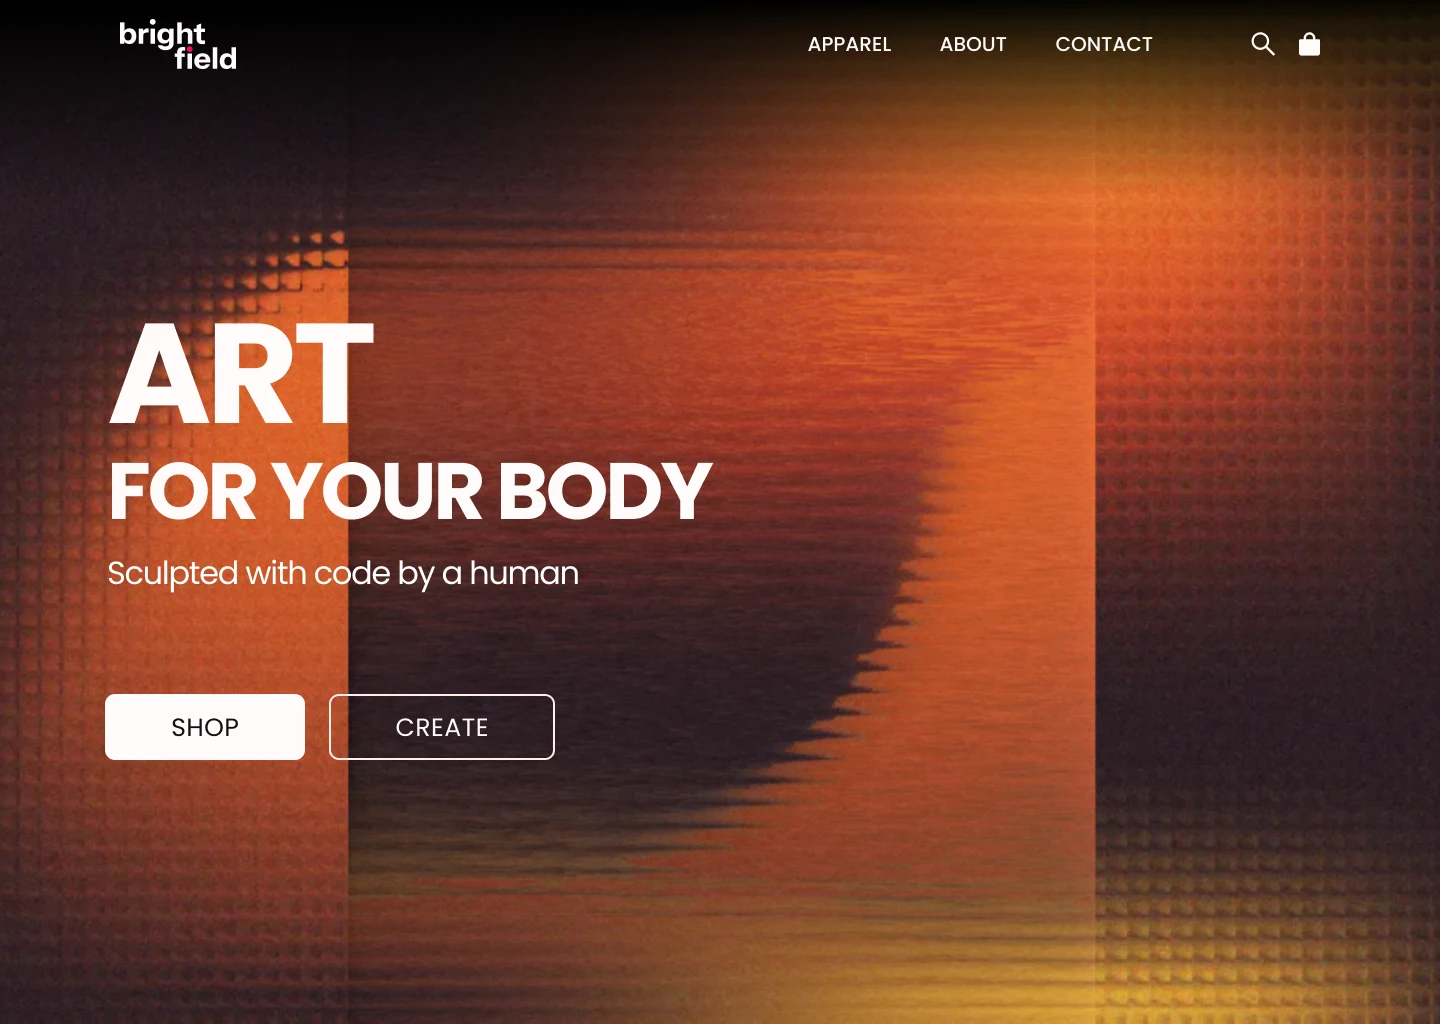
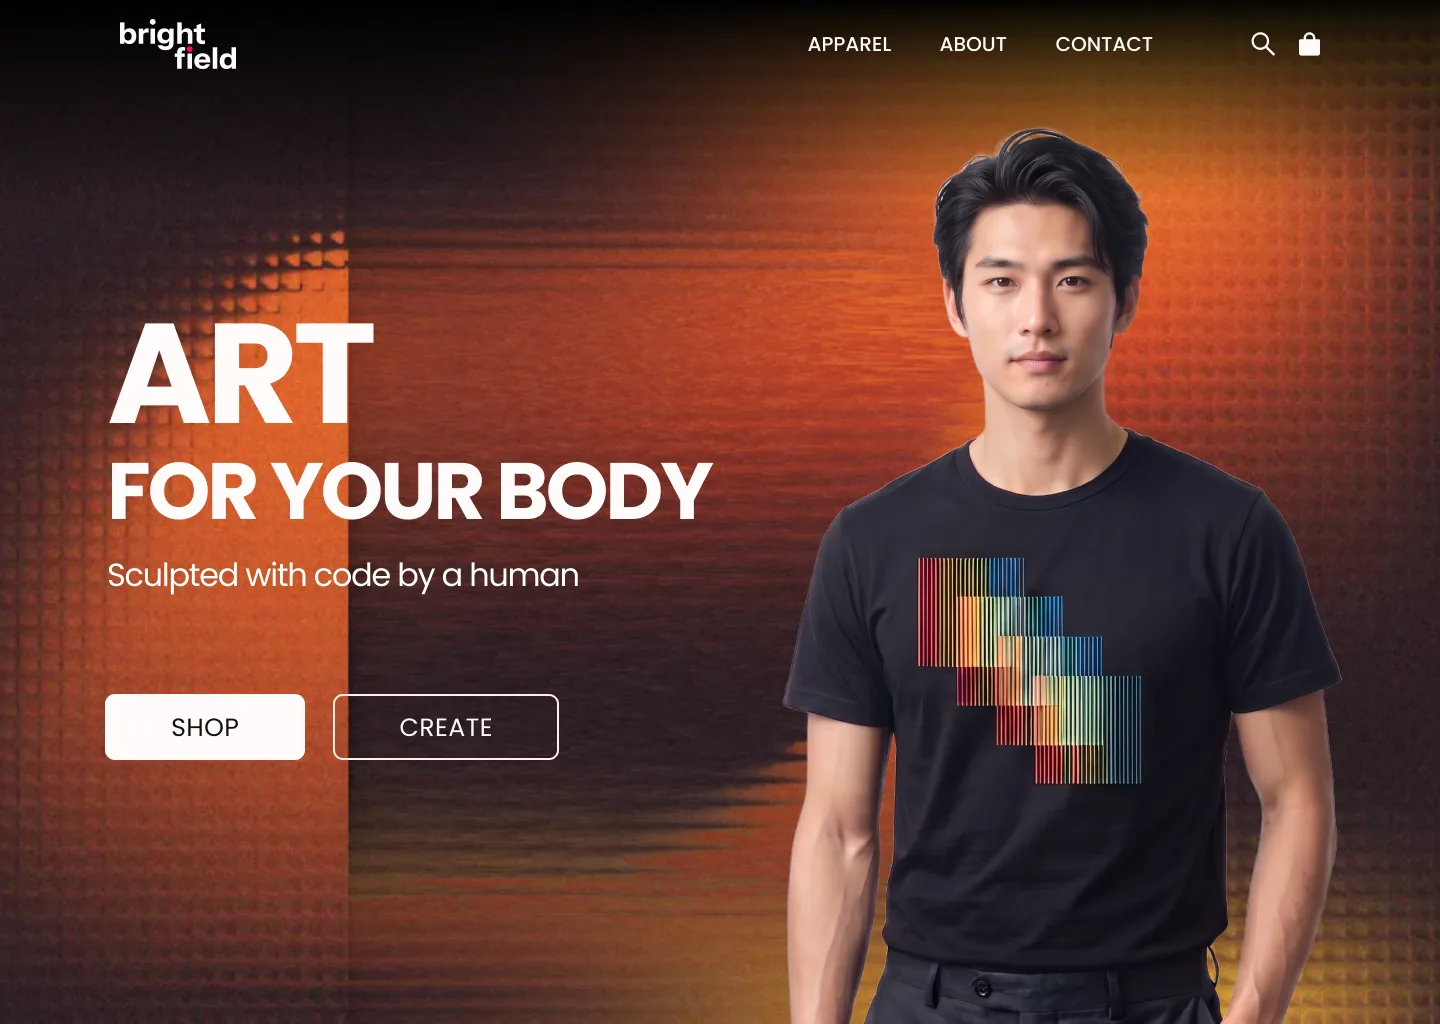
Update Brightfield case study hero, human section and footer from Nov 2026 Figma
- Re-export the desktop, tablet and mobile hero images (model in a printed shirt)
- Rebuild the human section mockup: portrait on the left, copy on the right,
  large quote mark behind the bio, new portrait crop
- Rebuild the footer mockup as the new light footer, with a dark wordmark
- Point View in Figma and the embed at the Nov 2026 file

Claude-Session: https://claude.ai/code/session_016ninutameoH43RX764rPhJ

diff --git a/next-frontend/src/app/work-ive-done/brightfield-redesign/page.tsx b/next-frontend/src/app/work-ive-done/brightfield-redesign/page.tsx
@@ -7,7 +7,7 @@ import AnimatedHeading from "@/components/ui/AnimatedHeading";
 import FigmaEmbed from "@/components/brightfield/FigmaEmbed";
 import { DesignsMockup, EndingMockup, HumanMockup } from "@/components/brightfield/Mockups";
 
-const FIGMA_FILE = "kD4AhFhs5ZlpsJfsTUuok6/Brightfield-web-redesign-Sept-2026?node-id=0-1";
+const FIGMA_FILE = "g1xZl2Yb6dmDzGv7zwKyvK/Brightfield-web-redesign-Nov-2026---Portfolio?node-id=0-1";
 const FIGMA_URL = `https://www.figma.com/design/${FIGMA_FILE}`;
 const FIGMA_EMBED_URL = `https://embed.figma.com/design/${FIGMA_FILE}&embed-host=share`;
 
@@ -135,12 +135,12 @@ export default function BrightfieldRedesignPage() {
                 <section>
                     <SectionHeading id="hero">The Hero</SectionHeading>
                     <p className="text-gray-700 leading-relaxed">
-                        The art fills the first screen, edge to edge, before anything is said about it. The headline is three words, and the two buttons name the two things you can do at Brightfield: shop a design, or create one.
+                        The art fills the first screen, edge to edge, and a model wears one of the designs, so the first thing you see is the art as a shirt. The headline is three words, and the two buttons name the two things you can do at Brightfield: shop a design, or create one.
                     </p>
                     <Figure caption="Hero, 1440 × 1024.">
                         <Image
                             src="/images/work-ive-done/brightfield-redesign/hero-section.webp"
-                            alt="Hero section: a full-bleed orange shader render with the Brightfield wordmark and navigation, the headline Art for your body, the line Sculpted with code by a human, and Shop and Create buttons."
+                            alt="Hero section: a full-bleed orange shader render with the Brightfield wordmark and navigation, the headline Art for your body, the line Sculpted with code by a human, and Shop and Create buttons, beside a model in a black shirt printed with a Brightfield line design."
                             width={1440}
                             height={1024}
                             sizes="(min-width: 1024px) 1024px, 100vw"
@@ -205,19 +205,19 @@ export default function BrightfieldRedesignPage() {
                         <div className="flex items-start gap-4">
                             <Image
                                 src="/images/work-ive-done/brightfield-redesign/tablet-hero.webp"
-                                alt="Tablet hero: the orange shader render with the headline Art for your body and Shop and Create buttons side by side."
+                                alt="Tablet hero: the orange shader render with the headline Art for your body and Shop and Create buttons side by side, and the model in the printed shirt on the right."
                                 width={1024}
                                 height={875}
-                                sizes="(min-width: 1024px) 730px, 70vw"
-                                className="w-[71.8%] min-w-0 h-auto rounded-lg"
+                                sizes="(min-width: 1024px) 745px, 72vw"
+                                className="w-[73.3%] min-w-0 h-auto rounded-lg"
                             />
                             <Image
                                 src="/images/work-ive-done/brightfield-redesign/mobile-hero.webp"
-                                alt="Mobile hero: the same headline over the shader render, with search, bag and menu icons in the navigation and full-width Shop and Create buttons stacked."
+                                alt="Mobile hero: the same headline over the shader render, with search, bag and menu icons in the navigation, full-width Shop and Create buttons stacked, and the model in the printed shirt below them."
                                 width={402}
-                                height={875}
-                                sizes="(min-width: 1024px) 290px, 28vw"
-                                className="w-[28.2%] min-w-0 h-auto rounded-lg"
+                                height={945}
+                                sizes="(min-width: 1024px) 275px, 27vw"
+                                className="w-[26.7%] min-w-0 h-auto rounded-lg"
                             />
                         </div>
                     </Figure>

diff --git a/next-frontend/src/components/brightfield/Mockups.tsx b/next-frontend/src/components/brightfield/Mockups.tsx
@@ -7,23 +7,24 @@ import s from "./brightfield.module.css";
  * Each one is presented as a single image to assistive tech (role="img" + inert).
  */
 
-function Wordmark() {
-    return <Image src="/images/work-ive-done/brightfield-redesign/wordmark.svg" alt="" width={176} height={76} className={s.wordmark} />;
-}
-
 export function HumanMockup() {
     return (
         <div
             className={s.frame}
             role="img"
-            aria-label="About section: the heading The human behind the designs, a two-paragraph bio in a serif face, and Eric Johnson's name and title beside a portrait."
+            aria-label="About section: a black and white portrait of Eric Johnson on the left, and on the right the heading The human behind the designs, a two-paragraph bio in a serif face, and his name and title beside the lettermark."
         >
             <div className={clsx(s.stage, s.human)} inert>
                 <div className={s.humanPhoto}>
-                    <Image src="/images/work-ive-done/brightfield-redesign/human.jpg" alt="" fill sizes="(min-width: 1024px) 1024px, 100vw" />
+                    <Image src="/images/work-ive-done/brightfield-redesign/human.webp" alt="" fill sizes="(min-width: 1024px) 470px, 45vw" />
                 </div>
                 <div className={s.humanCopy}>
-                    <h3>The human behind the designs</h3>
+                    <span className={s.quoteMark} aria-hidden>
+                        &ldquo;
+                    </span>
+                    <h3>
+                        The human behind the designs<span className={s.dot}>.</span>
+                    </h3>
                     <p>I&rsquo;m Eric, an Iowa-based artist and creative coder.</p>
                     <p>
                         After two decades of making things for the web, I created Brightfield as a place to explore code as an artistic medium&mdash;turning math into original designs you can wear.
@@ -93,7 +94,7 @@ export function EndingMockup() {
         <div
             className={s.frame}
             role="img"
-            aria-label="Closing sections: a glowing panel headed Get notified about new designs with an email field and Sign up button, above a footer with the Brightfield wordmark and links."
+            aria-label="Closing sections: a glowing panel headed Get notified about new designs with an email field and Sign up button, above a light footer with the Brightfield wordmark, page links, and a row of legal links."
         >
             <div className={s.stage} inert>
                 <div className={s.notifyGlow}>
@@ -112,26 +113,21 @@ export function EndingMockup() {
                     </div>
                 </div>
                 <div className={s.footer}>
-                    <div className={s.footerBrand}>
-                        <Wordmark />
-                        <small>
-                            Brightfield Studio
-                            <br />
-                            Iowa, USA
-                        </small>
-                    </div>
-                    <div className={s.footerLinks}>
-                        <div>
+                    <div className={s.footerTop}>
+                        <Image src="/images/work-ive-done/brightfield-redesign/wordmark-dark.svg" alt="" width={176} height={76} className={s.wordmark} />
+                        <div className={s.footerLinks}>
                             <span>About</span>
                             <span>Contact</span>
                             <span>FAQ</span>
                             <span>Returns</span>
                         </div>
-                        <div>
+                    </div>
+                    <div className={s.footerBottom}>
+                        <div className={s.footerLegal}>
                             <span>Privacy</span>
                             <span>Terms of Service</span>
-                            <span>&copy; 2026 Brightfield Studio</span>
                         </div>
+                        <span>&copy; 2026 Brightfield Studio</span>
                     </div>
                 </div>
             </div>

diff --git a/next-frontend/src/components/brightfield/brightfield.module.css b/next-frontend/src/components/brightfield/brightfield.module.css
@@ -57,53 +57,68 @@
 
 /* ---------- human ---------- */
 .human {
-    aspect-ratio: 1440 / 900;
+    aspect-ratio: 1440 / 842;
 }
 .humanPhoto {
     position: absolute;
-    left: calc(var(--u) * 68);
-    right: 0;
+    left: 0;
     top: 0;
     bottom: 0;
+    width: calc(var(--u) * 650);
 }
 .humanPhoto img {
     object-fit: cover;
-    object-position: top;
+    object-position: top left;
 }
 .humanCopy {
     position: absolute;
-    left: calc(var(--u) * 107);
-    top: calc(var(--u) * 150);
+    left: calc(var(--u) * 660);
+    top: calc(var(--u) * 60);
     width: calc(var(--u) * 660);
+}
+.humanCopy > * {
+    position: relative;
+}
+.quoteMark {
+    position: absolute !important;
+    left: 0;
+    top: 0;
+    font-family: var(--font-merriweather), Georgia, serif;
+    font-size: calc(var(--u) * 1182);
+    line-height: normal;
+    color: var(--bf-n10);
+    pointer-events: none;
 }
 .humanCopy h3 {
     margin: 0;
     font-weight: 700;
     font-size: calc(var(--u) * 72);
-    line-height: 1.03;
+    line-height: calc(74 / 72);
     letter-spacing: -0.04em;
 }
 .humanCopy p {
     font-family: var(--font-merriweather), Georgia, serif;
     font-size: calc(var(--u) * 32);
-    line-height: 1.25;
-    margin: calc(var(--u) * 44) 0 0;
+    line-height: calc(40 / 32);
+    max-width: calc(var(--u) * 639);
+    margin: calc(var(--u) * 80) 0 0;
 }
 .humanCopy p + p {
-    margin-top: calc(var(--u) * 36);
+    margin-top: calc(var(--u) * 40);
 }
 .who {
     display: flex;
     gap: calc(var(--u) * 16);
     align-items: center;
-    margin-top: calc(var(--u) * 48);
+    margin-top: calc(var(--u) * 88);
     font-size: calc(var(--u) * 25);
-    line-height: 1.2;
+    line-height: calc(30 / 25);
     letter-spacing: -0.04em;
 }
 .who strong {
     display: block;
     font-weight: 600;
+    margin-bottom: calc(var(--u) * 2);
 }
 .lettermark {
     width: calc(var(--u) * 58);
@@ -240,37 +255,38 @@
     text-transform: uppercase;
 }
 .footer {
-    margin-top: calc(var(--u) * 250);
-    height: calc(var(--u) * 312);
+    margin-top: calc(var(--u) * 163);
+    height: calc(var(--u) * 369);
+    box-sizing: border-box;
+    padding: calc(var(--u) * 93) calc(var(--u) * 120) 0;
+    background: #fbfafa;
+    color: #372e2e;
+}
+.footerTop {
     display: flex;
-    border-top: 1px solid var(--bf-n10);
-}
-.footerBrand {
-    width: calc(var(--u) * 450);
-    background: var(--bf-n10);
-    padding: calc(var(--u) * 80) calc(var(--u) * 120) 0;
-}
-.footerBrand small {
-    display: block;
-    margin-top: calc(var(--u) * 28);
-    font-size: calc(var(--u) * 13);
-    line-height: 1.5;
-    color: var(--bf-text2);
+    justify-content: space-between;
+    align-items: center;
 }
 .footerLinks {
-    flex: 1;
-    display: flex;
-    flex-direction: column;
-    justify-content: space-between;
-    align-items: flex-end;
-    padding: calc(var(--u) * 96) calc(var(--u) * 120) calc(var(--u) * 40) 0;
-    font-size: calc(var(--u) * 20);
-}
-.footerLinks div {
     display: flex;
     gap: calc(var(--u) * 64);
+    font-size: calc(var(--u) * 20);
+    line-height: calc(24 / 20);
+    letter-spacing: -0.04em;
 }
-.footerLinks div + div {
-    font-size: calc(var(--u) * 14);
-    color: var(--bf-text2);
+.footerBottom {
+    margin-top: calc(var(--u) * 111);
+    padding: calc(var(--u) * 30) 0;
+    border-top: 1px solid var(--bf-text2);
+    display: flex;
+    justify-content: space-between;
+    padding-left: calc(100% - var(--u) * 692);
+    font-size: calc(var(--u) * 16);
+    line-height: calc(20 / 16);
+    letter-spacing: -0.04em;
+    color: var(--bf-n50);
+}
+.footerLegal {
+    display: flex;
+    gap: calc(var(--u) * 28);
 }
